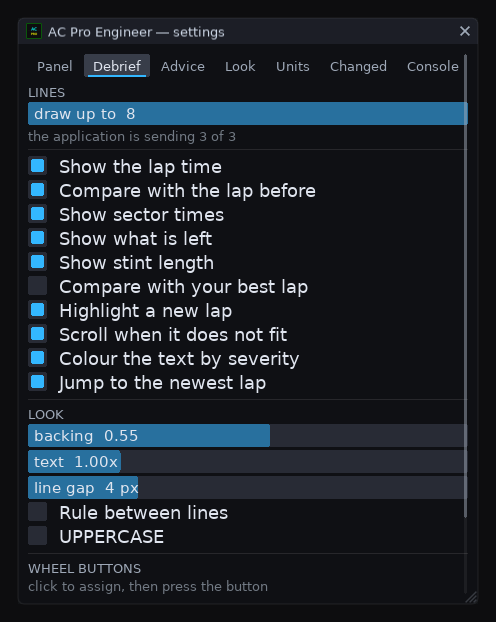
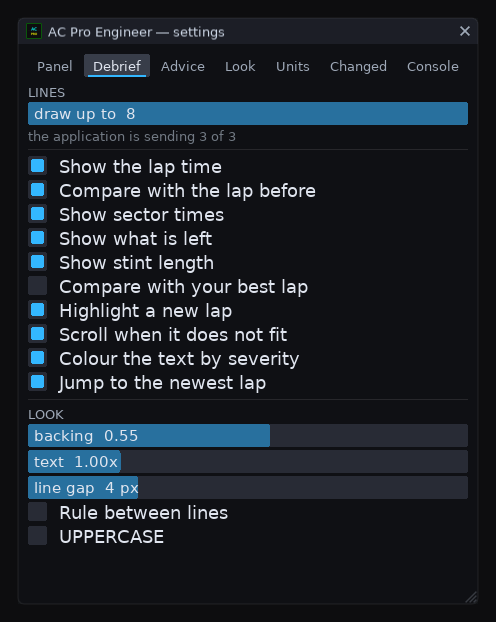
chore(release): v0.3.6 — take the wheel bindings out, bump every version
**The bindings are gone.** They wrote into Assetto Corsa's own `controls.ini`
correctly — confirmed on a Moza R5, `BUTTON=35, JOY=0` — and the press never
came back to the panel. A control that looks bound and does nothing is worse
than no control, so it comes out and returns when it works. Everything that
referenced it went with it: the module, its entry in the installer, the poll in
`script.update`, the settings section, the translations and both harness stubs.
Paging the debrief is `<` and `>` in the window, which works.

**Versions moved together**, which is what the three tests that check they agree
are for — they caught all of it: `Cargo.toml`, `PANEL_VERSION` and the
manifest's `VERSION` to 0.3.6, `README.txt`'s banner, and the bridge rebuilt so
its compiled-in stamp reads 0.3.6 rather than announcing the previous release
from inside a current binary.

Changelog dated and cut down to what shipped. README loses the bindings section
and gains the debrief's look settings in its place; all 28 screenshots
regenerated and cross-checked against the references, no orphans, no broken
anchors.

330 tests, clippy clean on both targets, fmt clean, both Lua harnesses green,
and the bridge probe reports 0.3.6 against a 2484-byte frame on both sides.

Not tagged.

Changed region(s): [[0.9375, 0.0916, 0.9677, 0.8248], [0.0605, 0.8859, 0.4234, 0.9469], [0.4536, 0.9164, 0.5141, 0.9469]]

diff --git a/core/src/overlay/install.rs b/core/src/overlay/install.rs
@@ -53,10 +53,6 @@ const FILES: &[(&str, &[u8])] = &[
         include_bytes!("../../../assets/frontends/csp-panel/icon.png"),
     ),
     (
-        "acpe/binds.lua",
-        include_bytes!("../../../assets/frontends/csp-panel/acpe/binds.lua"),
-    ),
-    (
         "acpe/blocks.lua",
         include_bytes!("../../../assets/frontends/csp-panel/acpe/blocks.lua"),
     ),

diff --git a/CHANGELOG.md b/CHANGELOG.md
@@ -2,17 +2,15 @@
 
 All notable changes to this project will be documented in this file.
 
-## [Unreleased] — v0.3.6
+## [v0.3.6] - 2026-08-10
 
 **The point:** the engineer had two halves and only one of them ever reached the
 car. The panel could tell you what was happening; it had nothing to say about
 the lap you had just finished. Now it does, with the last three laps to page
-through and a wheel button to page with.
+through.
 
-> Not released yet, and not yet driven: the debrief has only seen synthetic laps
-> under the test harnesses, and the wheel bindings have never had a wheel near
-> them. The frame changed, so a published build will need a matching
-> `shm-bridge.exe` on Linux — see the breaking note.
+> The frame changed, so **Linux needs a matching `shm-bridge.exe`** — see the
+> breaking note. Everything else is optional and off until you turn it on.
 
 Nothing here changes what the application does unless you go and turn it on. The
 debrief is a new window you open; the UDP feed is off until you set an address.
@@ -32,16 +30,19 @@ debrief is a new window you open; the UDP feed is off until you set an address.
   windows, camber per axle, brakes, and how the lap was driven. `<` and `>` page
   through the last three laps, and the header says how the lap compared with the
   one before it.
-- **Wheel buttons for it.** Two bindings assigned inside the app and stored by
-  Assetto Corsa, in the game's own `controls.ini` — so a wheel button, a
-  gamepad or a key all work and the panel never learns which it was. Nothing is
-  bound by default: a default that is free on one wheel steals the pit limiter
-  on another. Settings → Debrief.
 - **Its own settings**: how many lines to draw (zero switches the whole thing
   off, and the application then publishes none), the lap time, the comparison
-  with the previous lap, colouring by severity, and whether a finished lap
-  pulls the window back to it — off is for comparing two laps without being
-  dragged forward.
+  with the previous lap or with your best, sector times, what is left of the
+  tyres and fuel, stint length, colouring by severity, and whether a finished
+  lap pulls the window back to it — off is for comparing two laps without being
+  dragged forward. Plus its own look: backing plate from transparent to solid
+  black, text size, line spacing, a rule between lines, upper case.
+
+  Paging is `<` and `>` in the window. Assigning a wheel button to it was in
+  this release and has been taken out again: it wrote the binding into Assetto
+  Corsa's own `controls.ini` correctly and the press never arrived back. It
+  will return when it works rather than shipping as a control that looks
+  bound and does nothing.
 - **Eight lines per lap, not four.** A lap can go wrong in more than four ways
   at once, and four slots meant whatever came fifth was silently dropped.
 - **Sector times against the session's best**, in the debrief. Four tenths

diff --git a/README.md b/README.md
@@ -463,17 +463,18 @@ reading a sentence against a bright sky.
 
 ### In-game settings — Debrief
 
-![Overlay settings, Debrief tab: how many lines, sectors, what is left, and the wheel bindings](screenshots/Overlay_Settings_Debrief.png)
+![Overlay settings, Debrief tab: how many lines, sectors, what is left, and how it looks](screenshots/Overlay_Settings_Debrief.png)
 
 How much the lap debrief says and how you move through it. Lines to draw — zero
 switches it off and the application stops publishing one at all — the lap time,
 the comparison with the lap before, sector times, what is left of the tyres and
 fuel, and whether a finished lap pulls the window back to it.
 
-Underneath: the wheel bindings. They are sections in Assetto Corsa's own
-`controls.ini`, so a wheel button, a gamepad or a key all work and the panel
-never learns which it was. Nothing is bound by default — a default that is free
-on one wheel steals the pit limiter on another.
+Underneath: how it looks. A backing plate from transparent to solid black, text
+size, line spacing, a rule between lines and upper case — its own numbers rather
+than the advice window's, because the two are read in different places.
+
+Paging between laps is `<` and `>` in the window itself.
 
 ### In-game settings — Look
 
